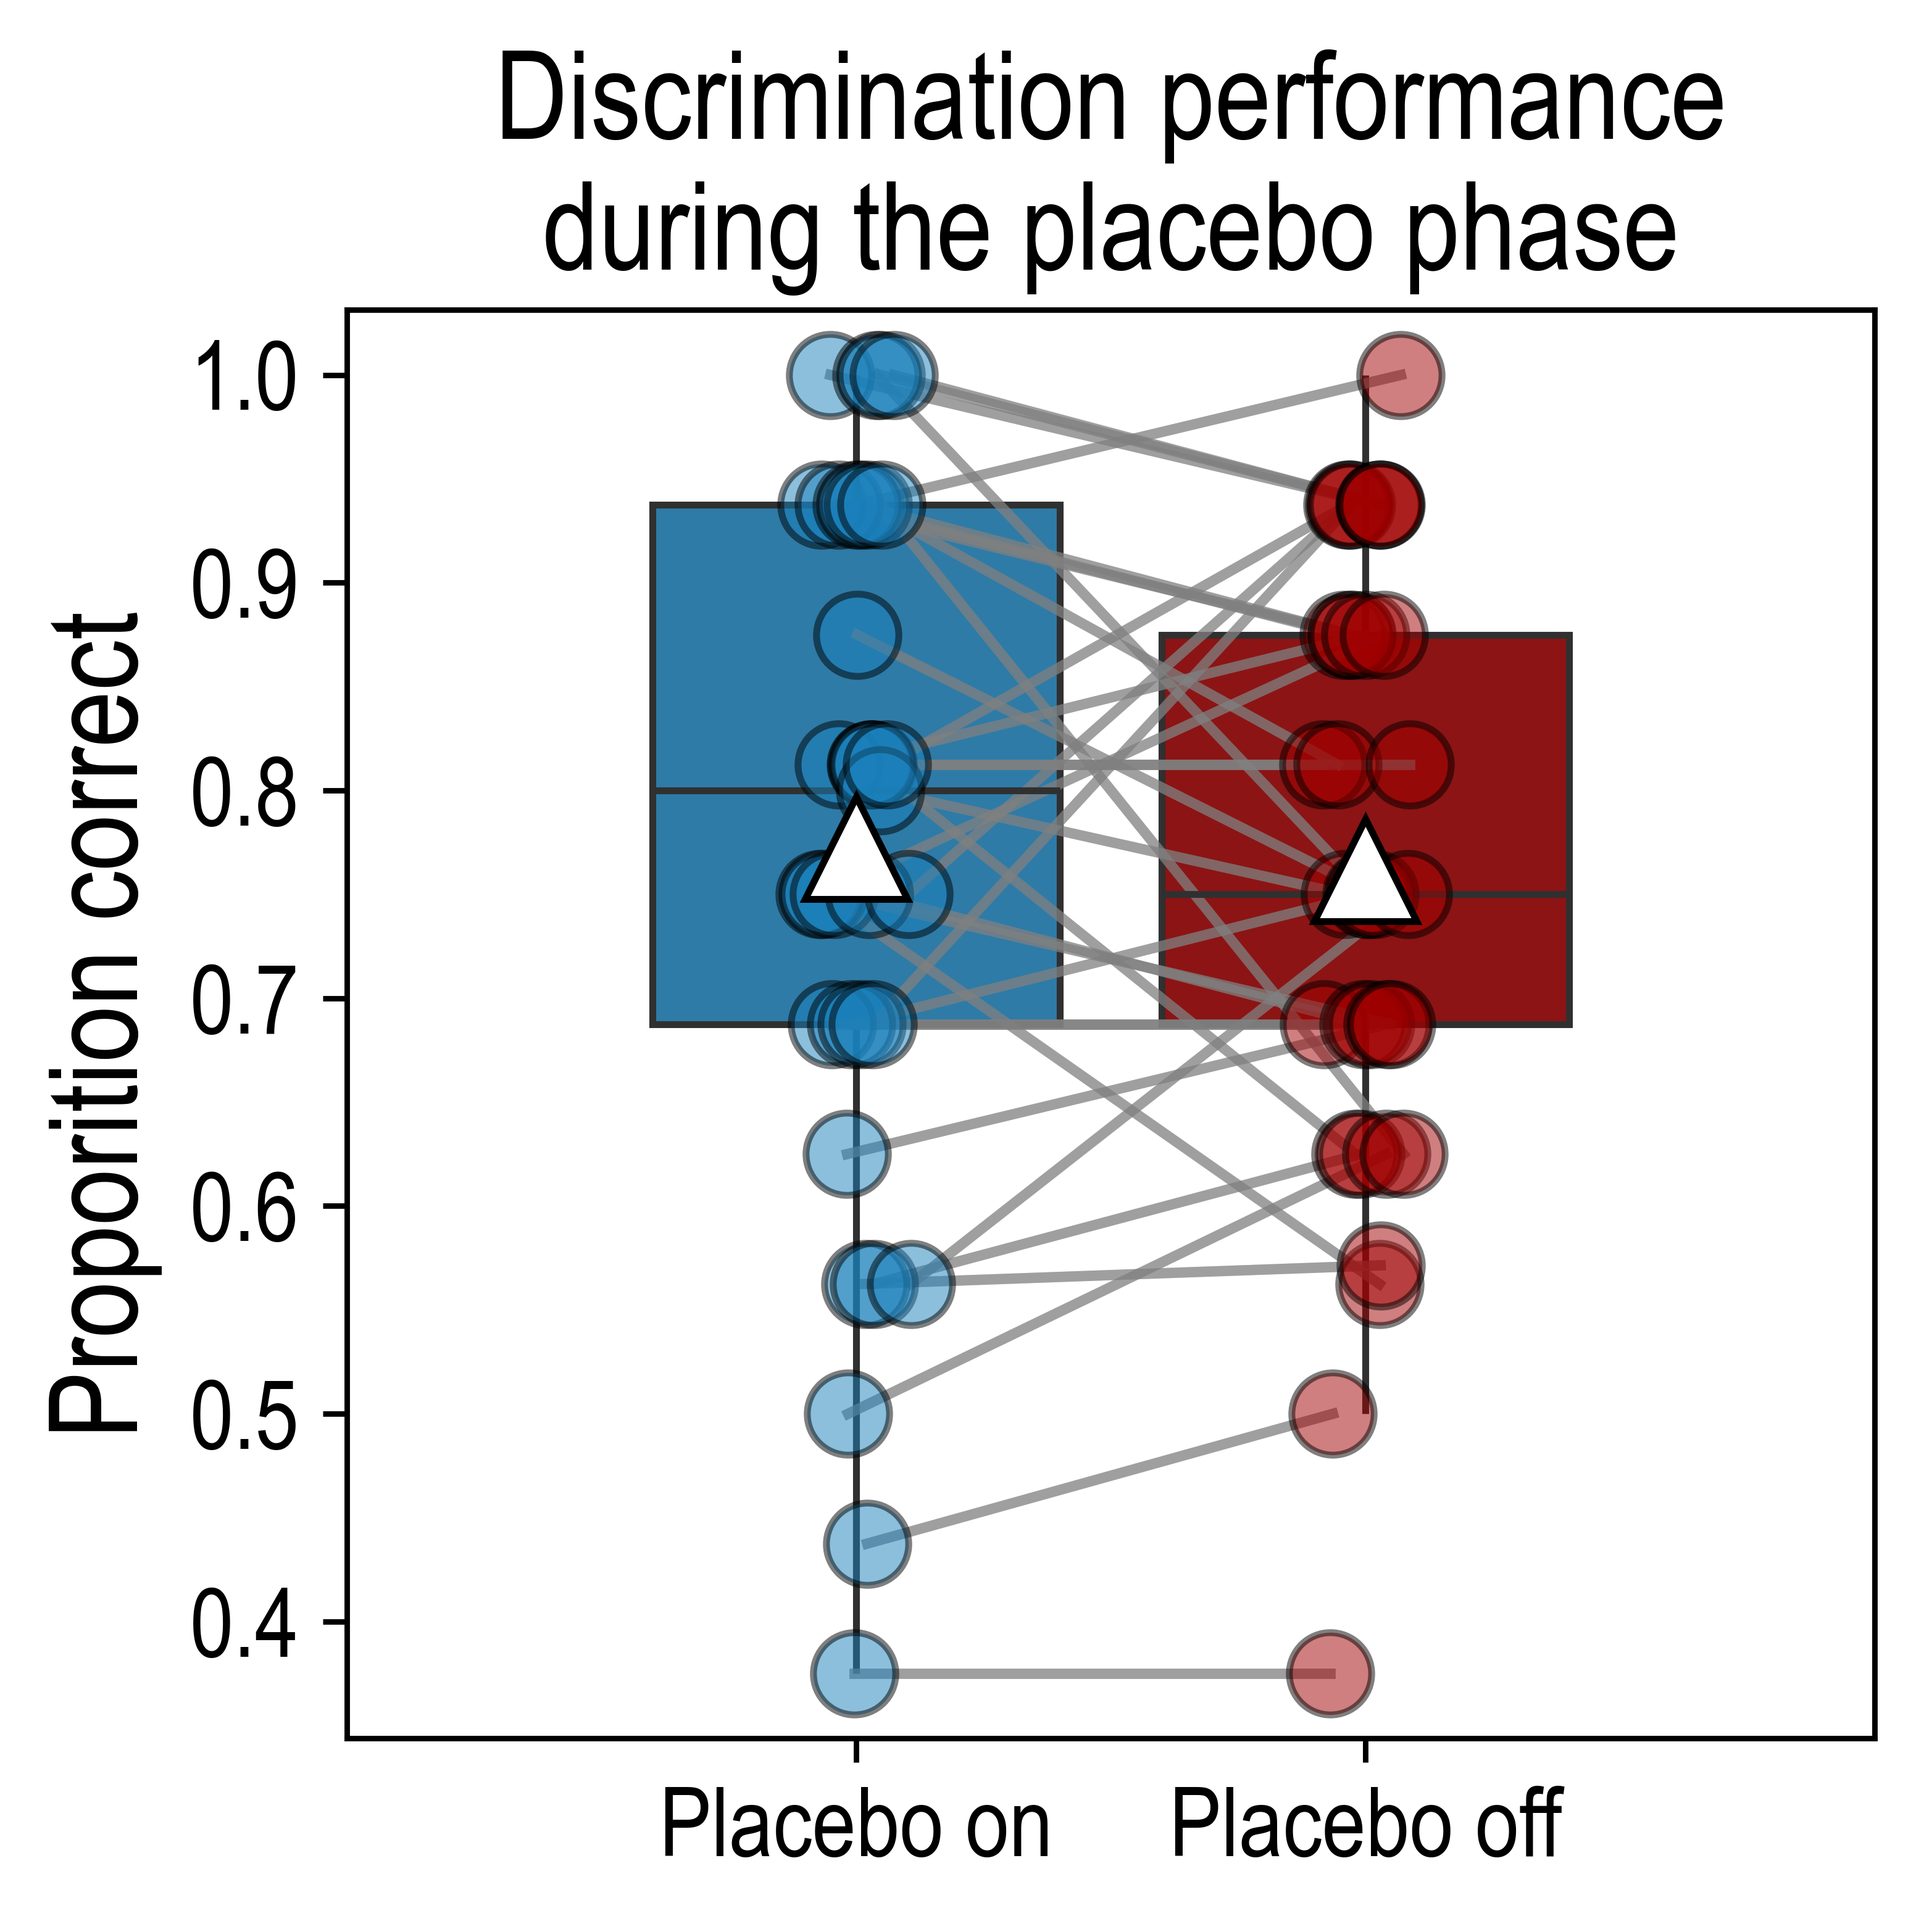
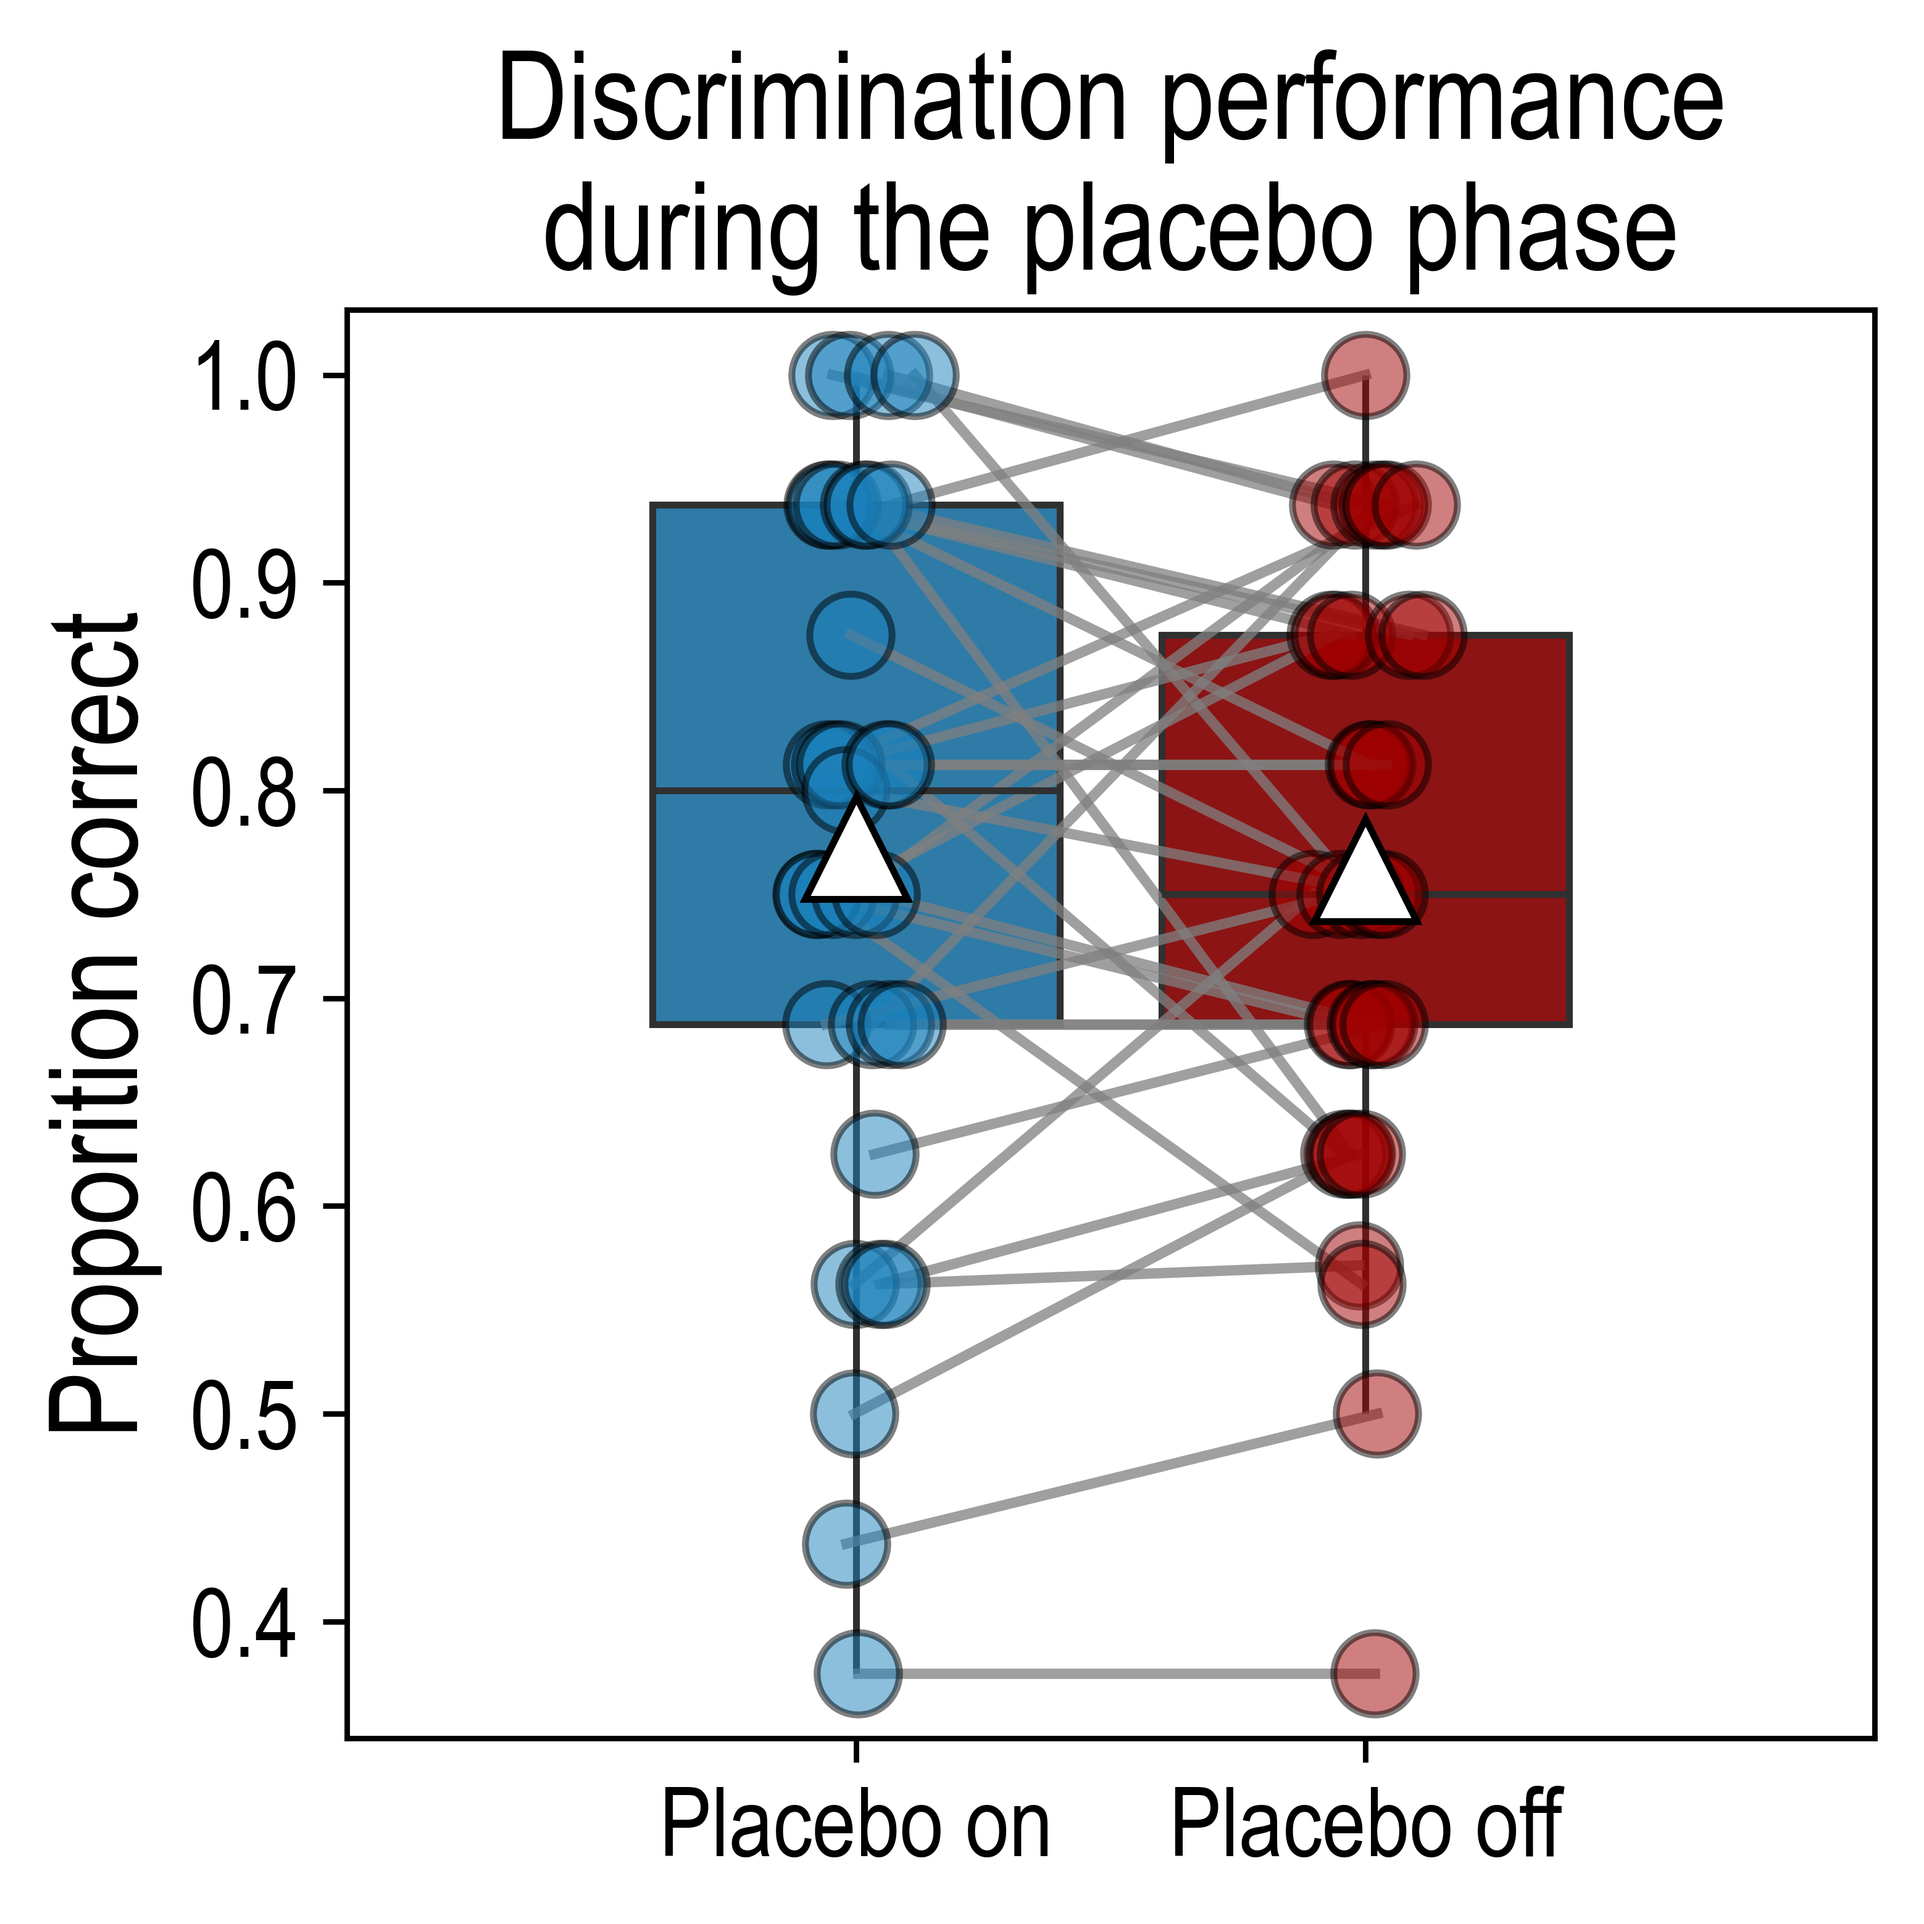
fixes

Changed region(s): [[0.4046, 0.1555, 0.778, 0.9022], [0.6535, 0.84, 0.7469, 0.9022]]

diff --git a/placebo_discrimination_analyses.py b/placebo_discrimination_analyses.py
@@ -12,6 +12,7 @@ import pingouin as pg
 import urllib.request
 import matplotlib.font_manager as fm
 from matplotlib.patches import Patch
+from tqdm import tqdm
 
 ############# Setup #############
 
@@ -83,14 +84,13 @@ wide_dat = pd.DataFrame(
 )
 
 # Loop participants
-for p in participants:
+for p in tqdm(participants, desc="Processing individual participants"):
 
     # Get participant folder and create derivatives folder
     par_fold = [c for c in os.listdir(bidsroot) if p in c]
     assert len(par_fold) == 1
     par_fold = opj(bidsroot, par_fold[0])
     deriv_path = opj("derivatives", p)
-    print(p)
     if not os.path.exists(deriv_path):
         os.mkdir(deriv_path)
     
@@ -104,7 +104,6 @@ for p in participants:
         quest_file = [quest_file[-1]]
     # Make sure there is just one
     for idx, f in enumerate(quest_file):
-        print(p + f)
         quest = pd.read_csv(os.path.join(par_fold, "QUEST", quest_file[idx]))
         plateau = quest["temp_plateau"].values[0]
         quest = quest[quest["pic_response"] != 'None']  
@@ -966,6 +965,7 @@ all_eval_frame_placeb.index = all_eval_frame_placeb["participant"]
 sns.boxplot(
     x="condition",
     y="ratings",
+    hue="condition",
     data=all_eval_frame_placeb,
     showfliers=False,
     showmeans=True,
@@ -982,6 +982,7 @@ sns.boxplot(
 sns.stripplot(
     x="condition",
     y="ratings",
+    hue="condition",
     data=all_eval_frame_placeb,
     alpha=0.5,
     size=12,
@@ -1173,6 +1174,7 @@ fig, ax = plt.subplots(figsize=(4, 4))
 sns.boxplot(
     x="variable",
     y="value",
+    hue="variable",
     data=anova_dat,
     showfliers=False,
     showmeans=True,
